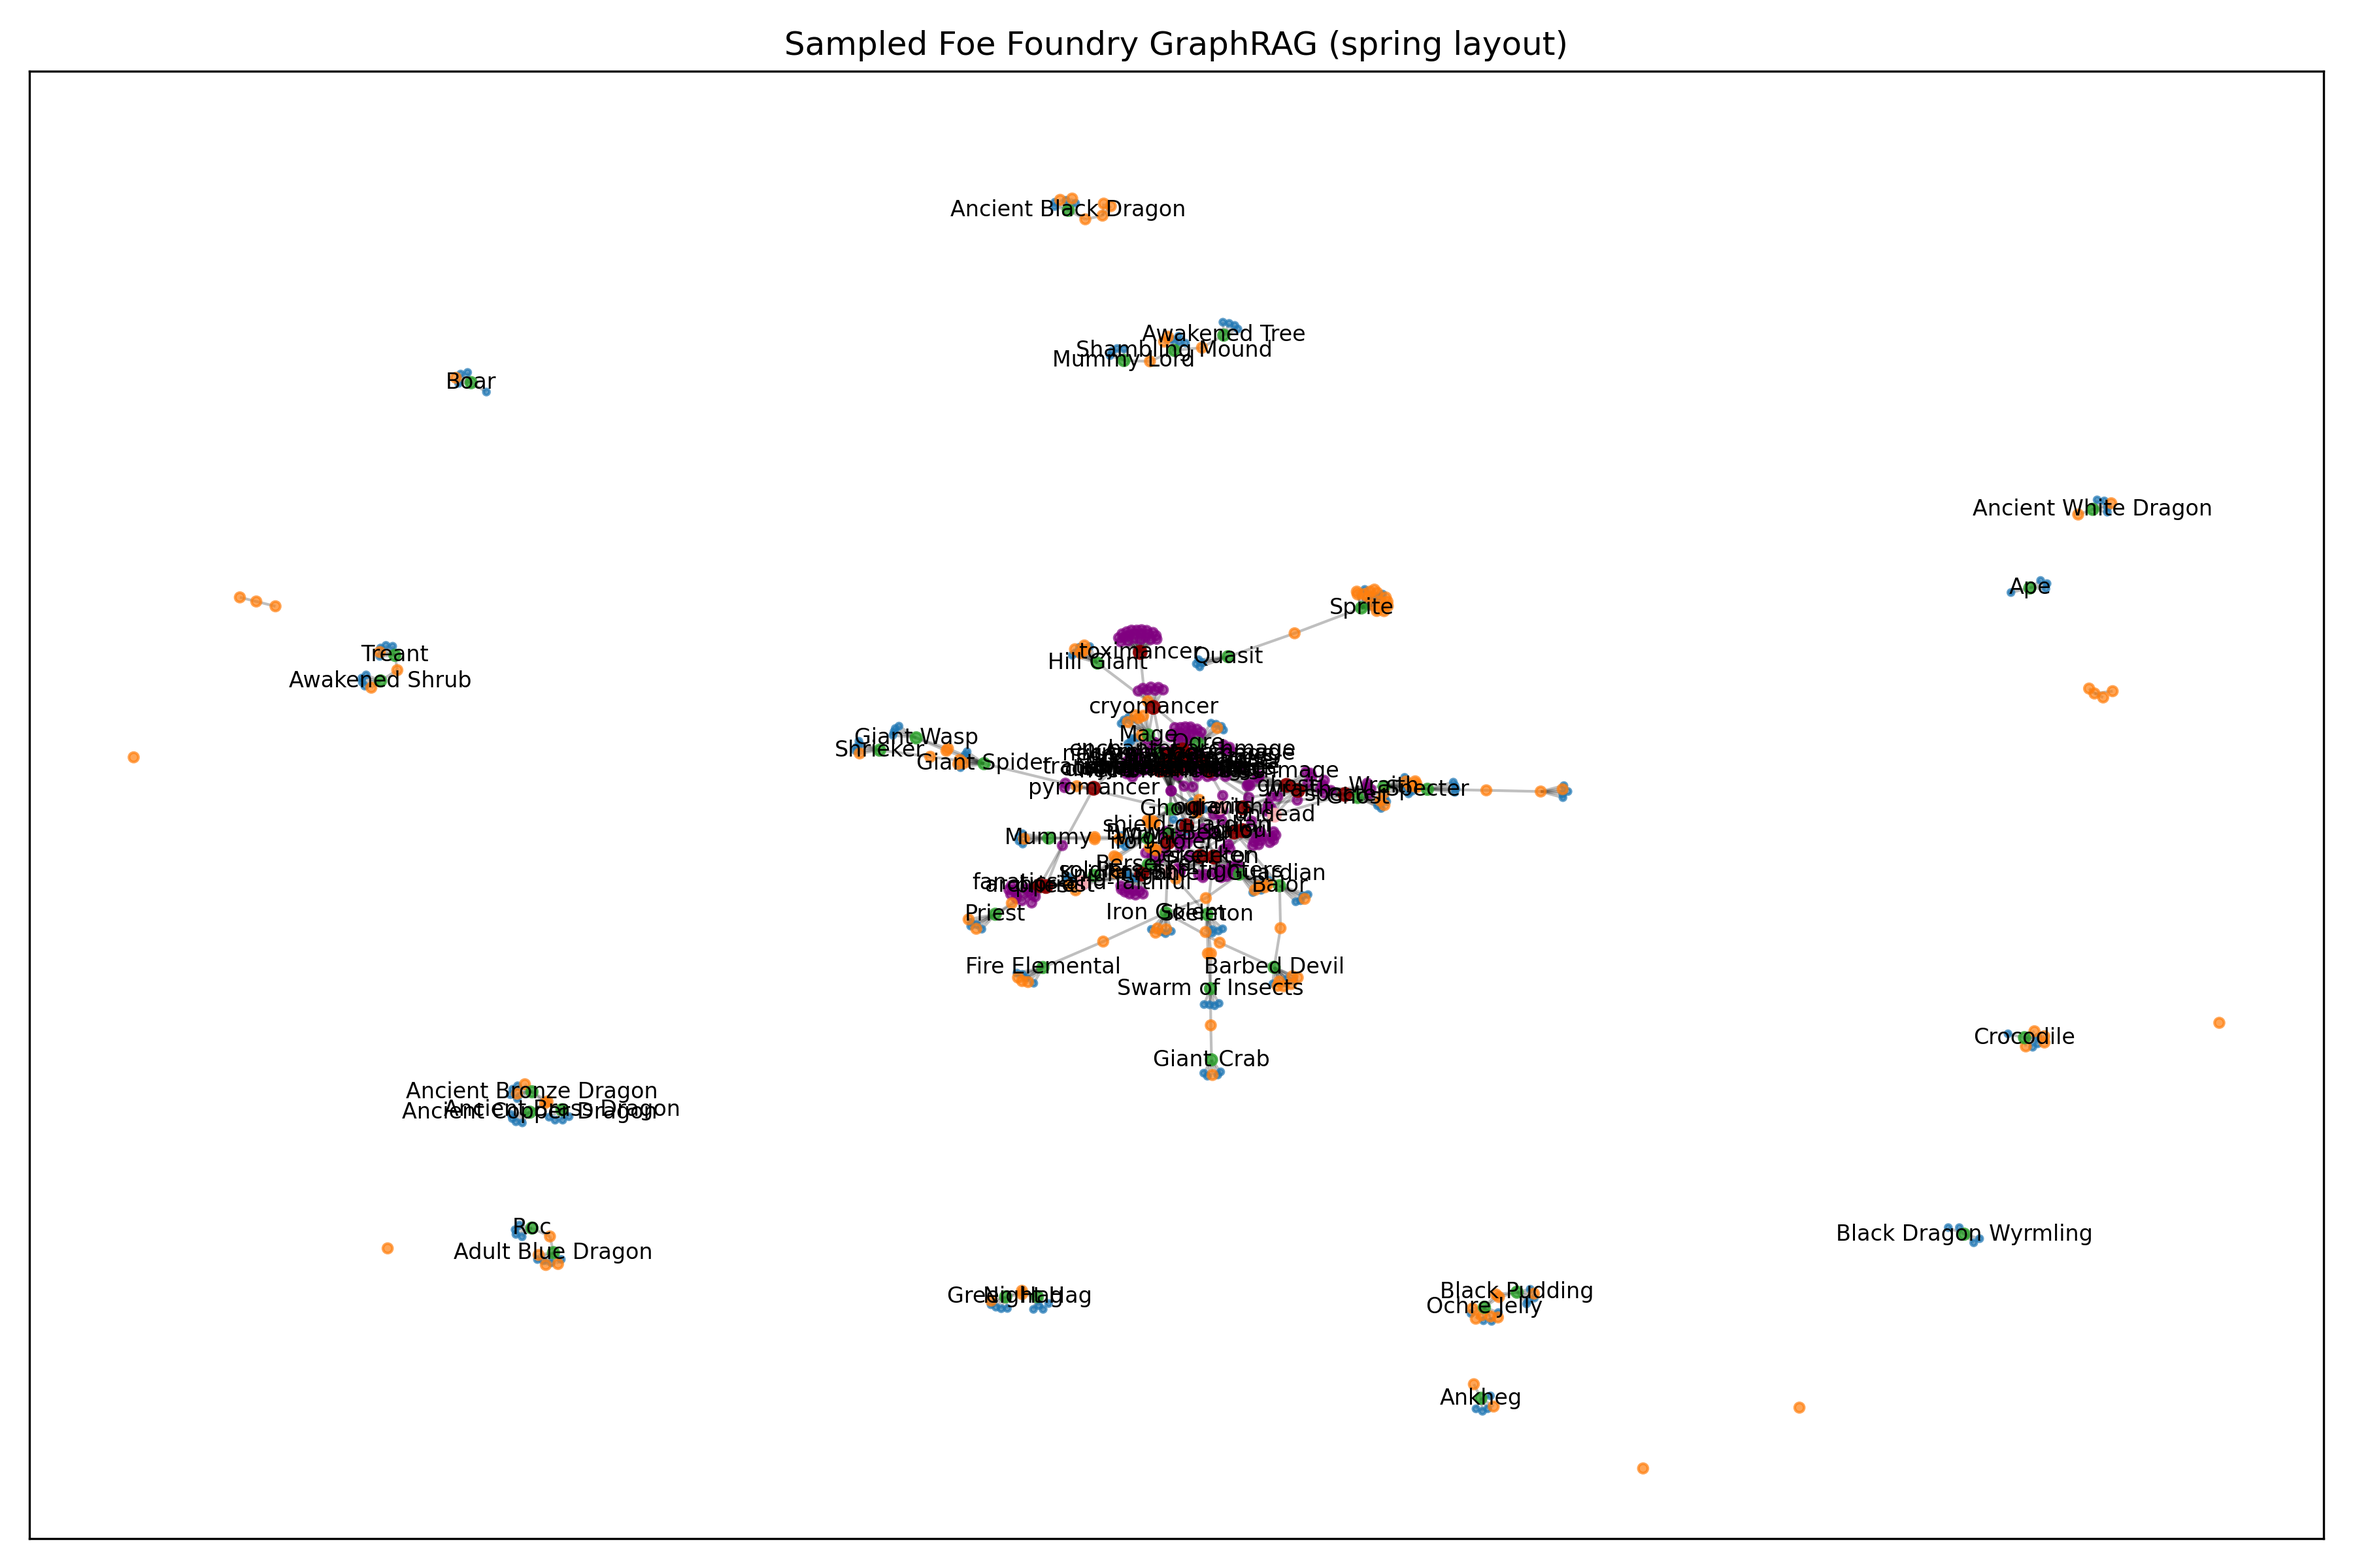
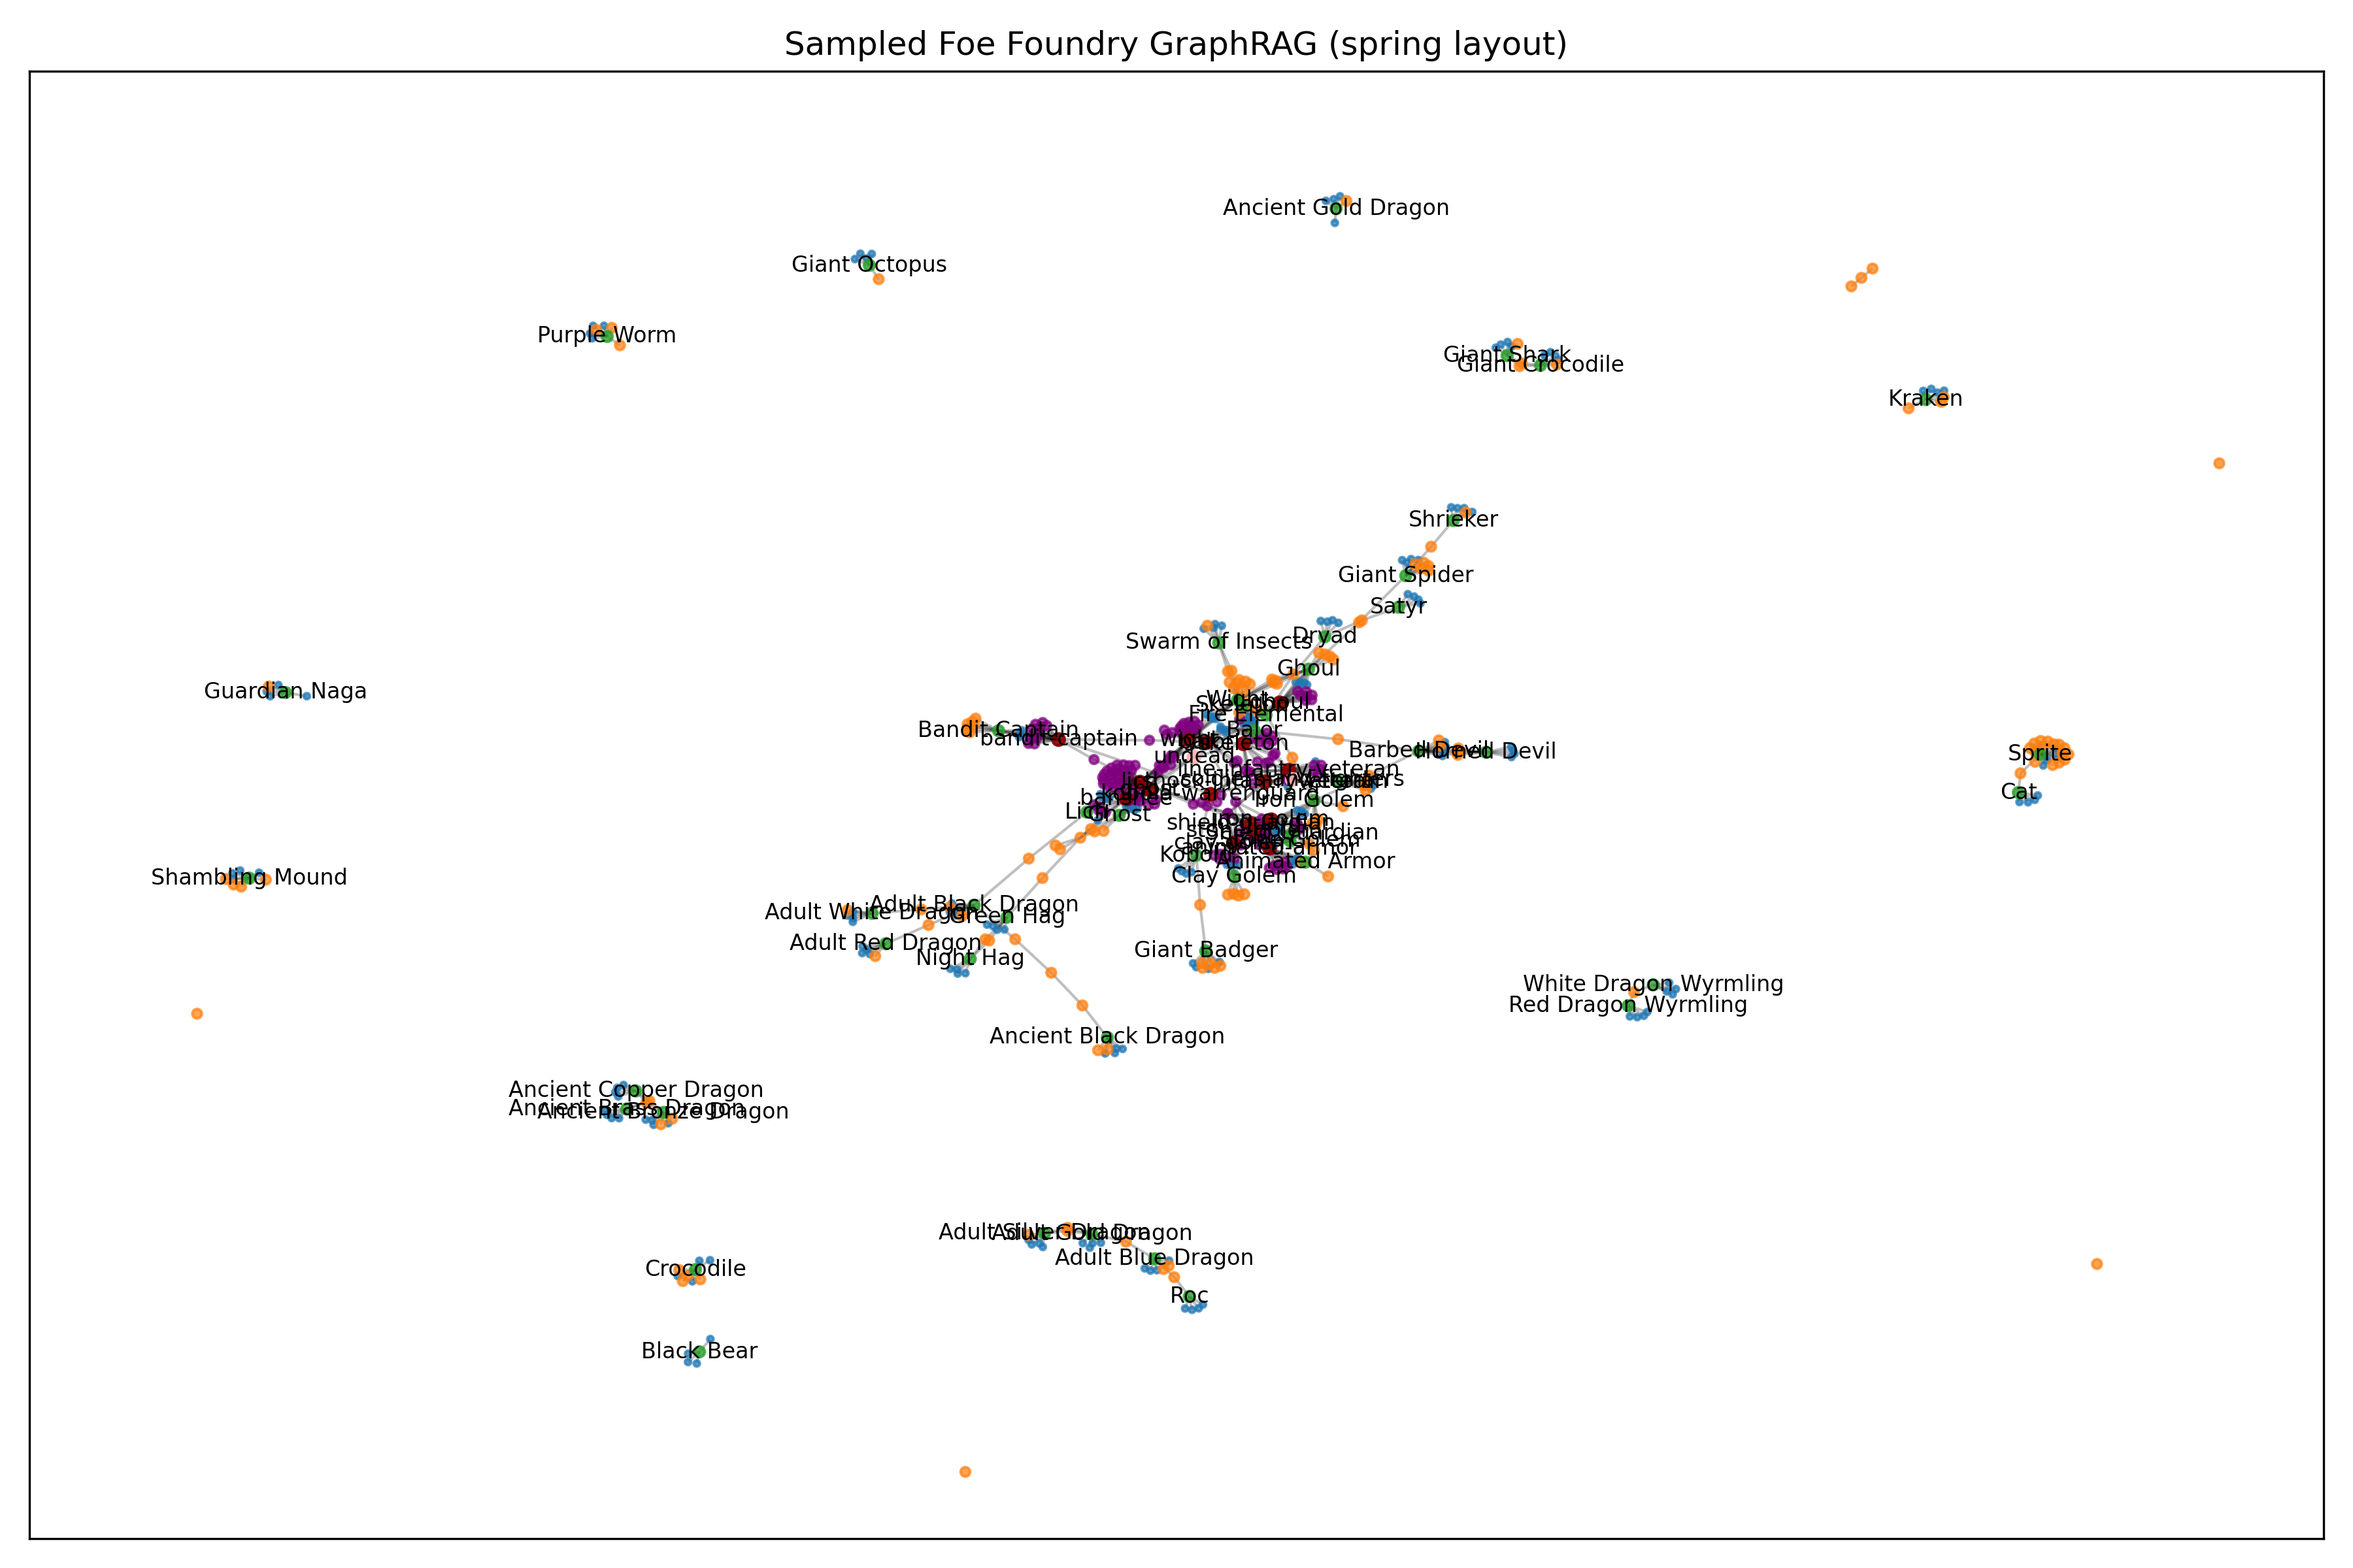
progress

diff --git a/foe_foundry_search/graph/build_graph.py b/foe_foundry_search/graph/build_graph.py
@@ -32,6 +32,7 @@ from foe_foundry.utils import name_to_key
 from foe_foundry_data.families import load_families
 from foe_foundry_data.powers import Powers
 from foe_foundry_search.documents import (
+    DocType,
     iter_monster_docs,
     load_monster_doc_metas,
 )
@@ -52,8 +53,10 @@ def build_graph() -> tuple[nx.DiGraph, list[str]]:
 
     issues = []
 
-    # Add DOC nodes: Each represents a monster document
+    # Add DOC nodes: Each represents a monster document taken from the background corpus
     for doc in iter_monster_docs():
+        if not doc.doc_type == DocType.background:
+            continue
         node_id = f"DOC:{doc.doc_id}"
         G.add_node(
             node_id, type="DOC", monster_key=doc.monster_key, id=node_id, text=doc.text
@@ -154,6 +157,25 @@ def build_graph() -> tuple[nx.DiGraph, list[str]]:
                         issues.append(
                             f"FF_MON {monster.key} references unknown other creature {other_monster_name}"
                         )
+
+    # Add DOC nodes: Each represents a monster document taken from the foe foundry lore
+    for doc in iter_monster_docs():
+        node_id = f"DOC:{doc.doc_id}"
+        G.add_node(
+            node_id,
+            type="DOC",
+            monster_key=doc.monster_key,
+            doc_type=doc.doc_type,
+        )
+
+        # Link DOC node to FF_MON
+        ff_mon_node_id = f"FF_MON:{doc.monster_key}"
+        if G.has_node(ff_mon_node_id):
+            G.add_edge(node_id, ff_mon_node_id, type="references")
+        else:
+            issues.append(
+                f"DOC {doc.doc_id} references unknown FF_MON {doc.monster_key}"
+            )
 
     # Add FF_FAM nodes: Monster families and their members
     for family in load_families():

diff --git a/foe_foundry_search/documents/load.py b/foe_foundry_search/documents/load.py
@@ -5,8 +5,9 @@ from typing import Iterable
 
 from foe_foundry import CreatureType, DamageType, MonsterRole
 from foe_foundry.utils import name_to_key
+from foe_foundry_data.monsters.all import Monsters
 
-from .doc import MonsterDocument
+from .doc import DocType, MonsterDocument
 from .meta import MonsterDocumentMeta
 
 
@@ -38,7 +39,22 @@ class _Loader:
 
             text = path.read_text(encoding="utf-8")
             monster_key = name_to_key(key)
-            yield MonsterDocument(path=path, monster_key=monster_key, text=text)
+            yield MonsterDocument(
+                doc_id=path.stem,
+                doc_type=DocType.background,
+                monster_key=monster_key,
+                text=text,
+            )
+
+        for monster in Monsters.one_of_each_monster:
+            if not monster.has_lore or monster.overview_html is None:
+                continue
+            yield MonsterDocument(
+                doc_id=monster.key + "-lore",
+                monster_key=monster.key,
+                doc_type=DocType.lore,
+                text=monster.overview_html,
+            )
 
     def iter_document_metas(self) -> Iterable[MonsterDocumentMeta]:
         dir = Path(__file__).parent.parent.parent / "data" / "5e_nl2"

diff --git a/foe_foundry_search/graph/visualize.py b/foe_foundry_search/graph/visualize.py
@@ -100,10 +100,10 @@ def visualize_graph_sampled(G, layout_type: LayoutType = LayoutType.SPRING):
                 ff_fam_nodes.add(succ)
     nodes_to_plot.update(ff_fam_nodes)
 
-    # Add all DOC nodes connected to the MON nodes we have so far
+    # Add all DOC nodes connected to the MON or FF_MON nodes we have so far
     doc_nodes = set()
     for mon in nodes_to_plot:
-        if G.nodes[mon].get("type") == "MON":
+        if G.nodes[mon].get("type") in {"MON", "FF_MON"}:
             for pred in G.predecessors(mon):
                 if G.nodes[pred].get("type") == "DOC":
                     doc_nodes.add(pred)

diff --git a/foe_foundry_search/documents/doc.py b/foe_foundry_search/documents/doc.py
@@ -1,13 +1,16 @@
 from dataclasses import dataclass
-from pathlib import Path
+
+from backports.strenum import StrEnum
+
+
+class DocType(StrEnum):
+    background = "background"
+    lore = "lore"
 
 
 @dataclass(kw_only=True)
 class MonsterDocument:
-    path: Path
+    doc_id: str
     monster_key: str
+    doc_type: DocType
     text: str
-
-    @property
-    def doc_id(self) -> str:
-        return self.path.stem

diff --git a/foe_foundry_search/documents/__init__.py b/foe_foundry_search/documents/__init__.py
@@ -1,4 +1,4 @@
-from .doc import MonsterDocument  # noqa
+from .doc import MonsterDocument, DocType  # noqa
 from .meta import MonsterDocumentMeta  # noqa
 from .load import (
     load_monster_doc_metas,  # noqa
